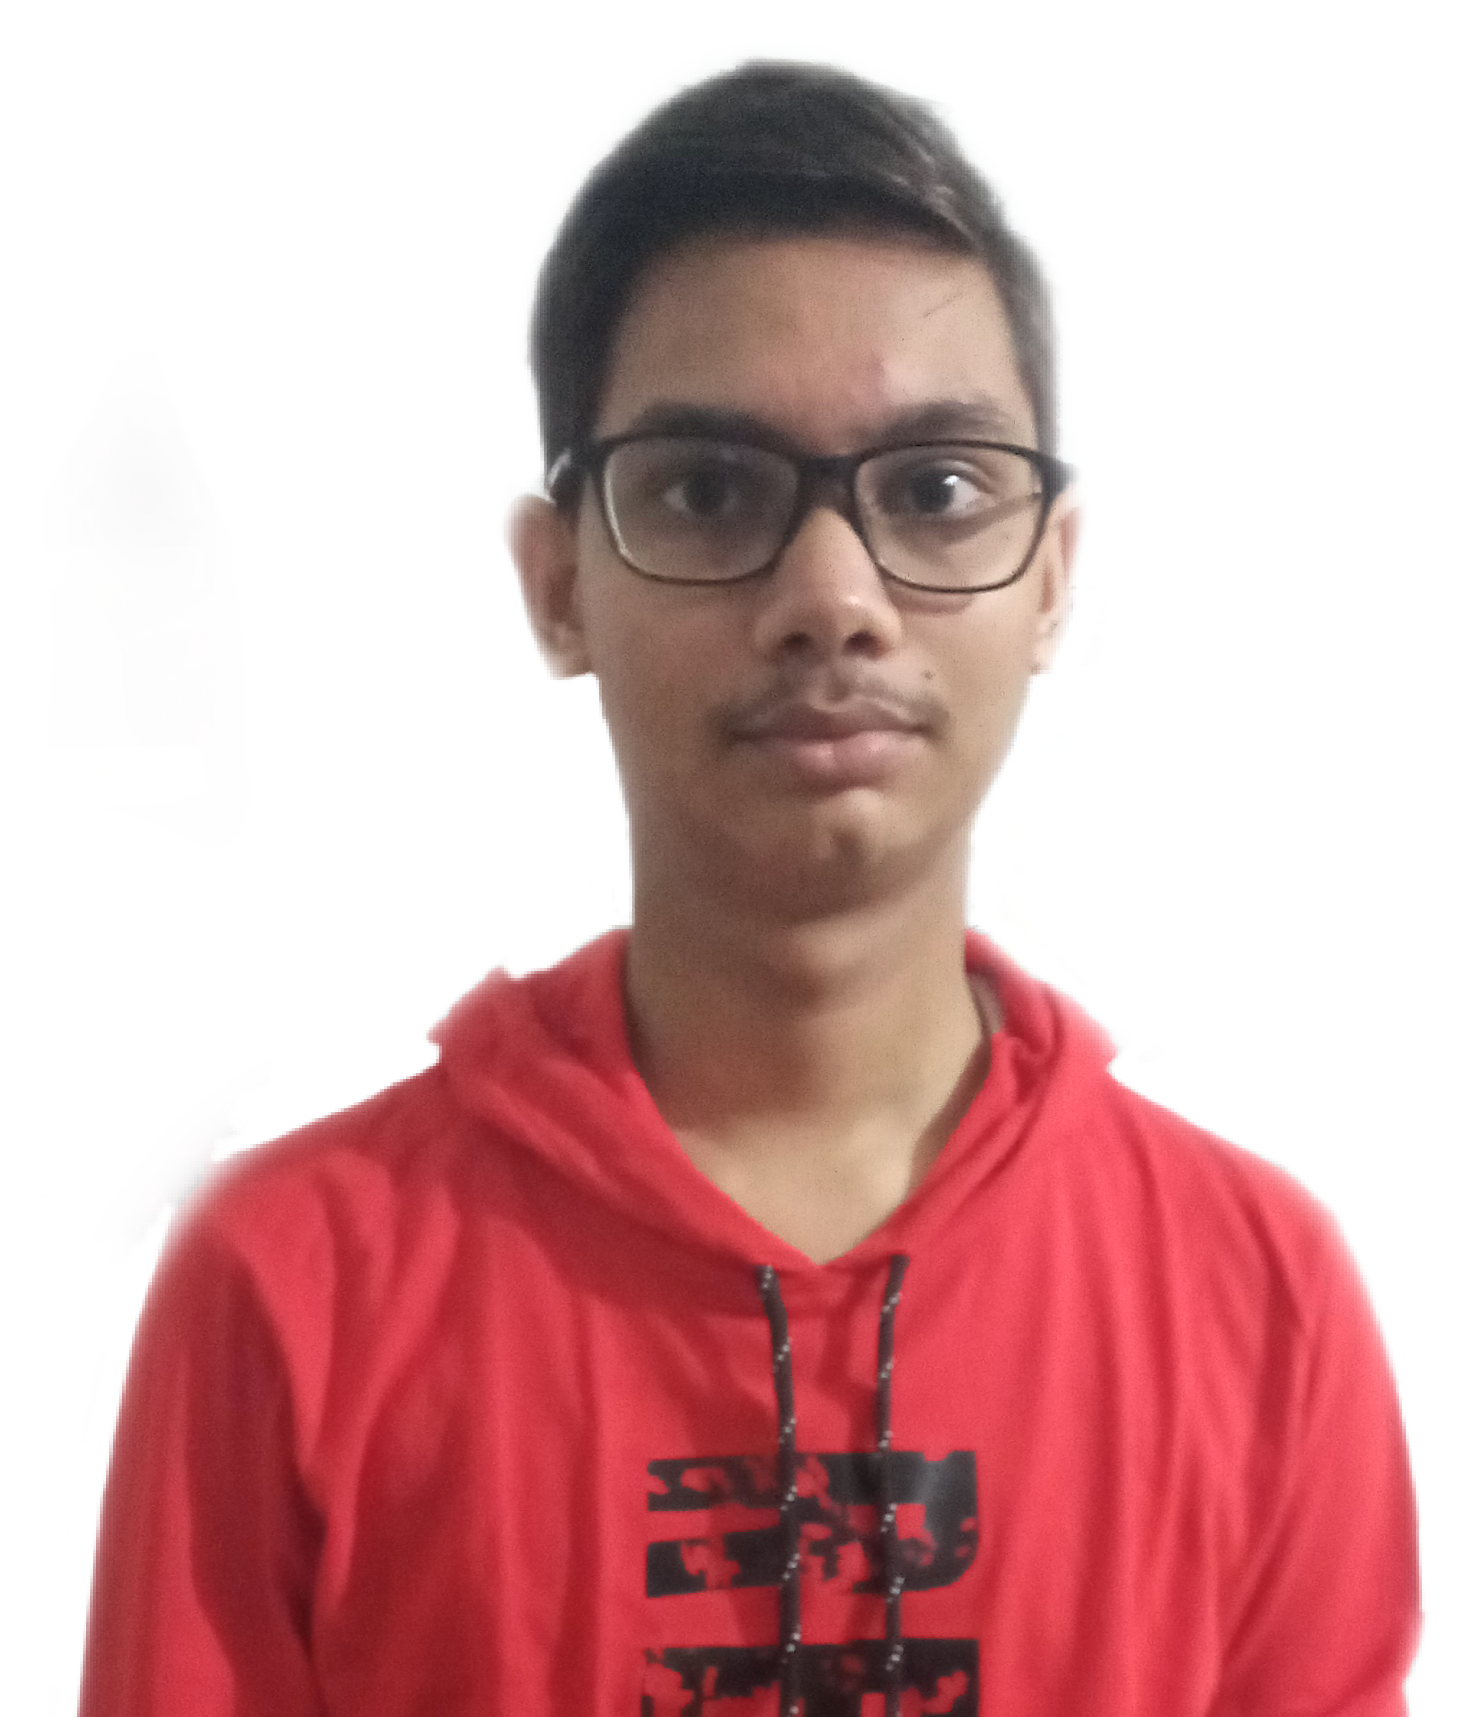
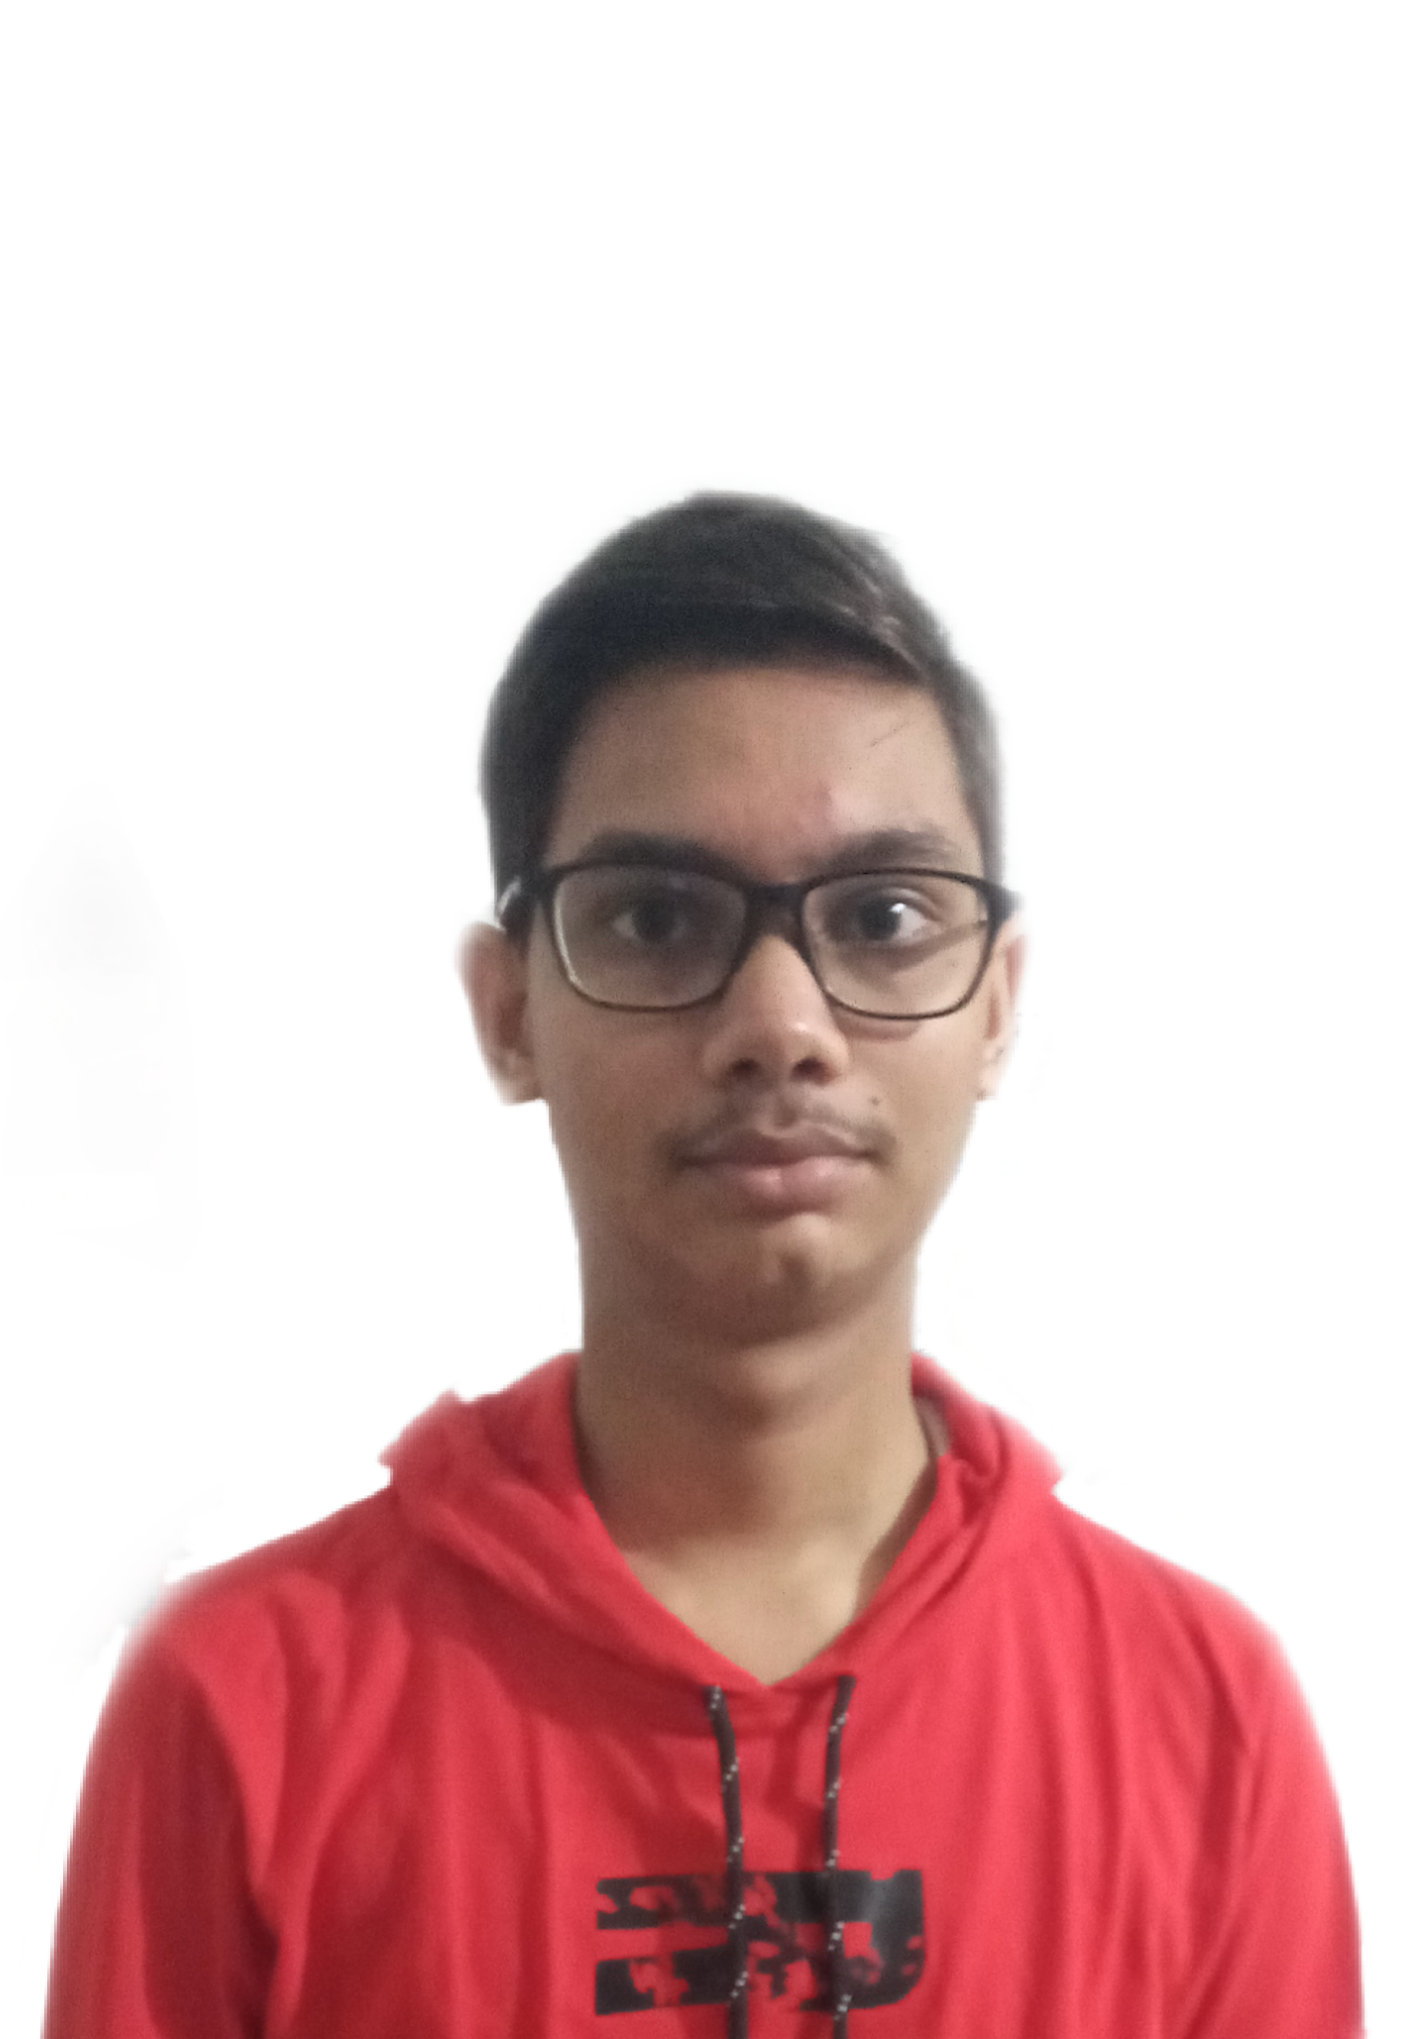
26jul

diff --git a/index.html b/index.html
@@ -96,7 +96,7 @@
 				  <h2 class="heading">About Me</h2>
 				  <div class="line-dec"></div>
 				  <div class="content">
-					<div class="avatarcenter"><img class="profile__avatar" src="../assets/profile2.png" alt="Nikhil_Upadhyay"></div>
+					<div class="avatarcenter"><img class="profile__avatar" src="../assets/profile.png" alt="Nikhil_Upadhyay"></div>
 				  </div><!--//content-->
 	   		    </div><!--//section-inner-->    
 				<div class="aboutcontent">Hi, I'am final year B.Tech. student from CSE stream.Strong in design and integration with intuitive problem-solving skills. Proficient in JAVA, PYTHON, HTML, CSS. Passionate about implementing and launching new projects. Looking to start the career as an entry-level software engineer with a reputed firm driven by technology.</div>
